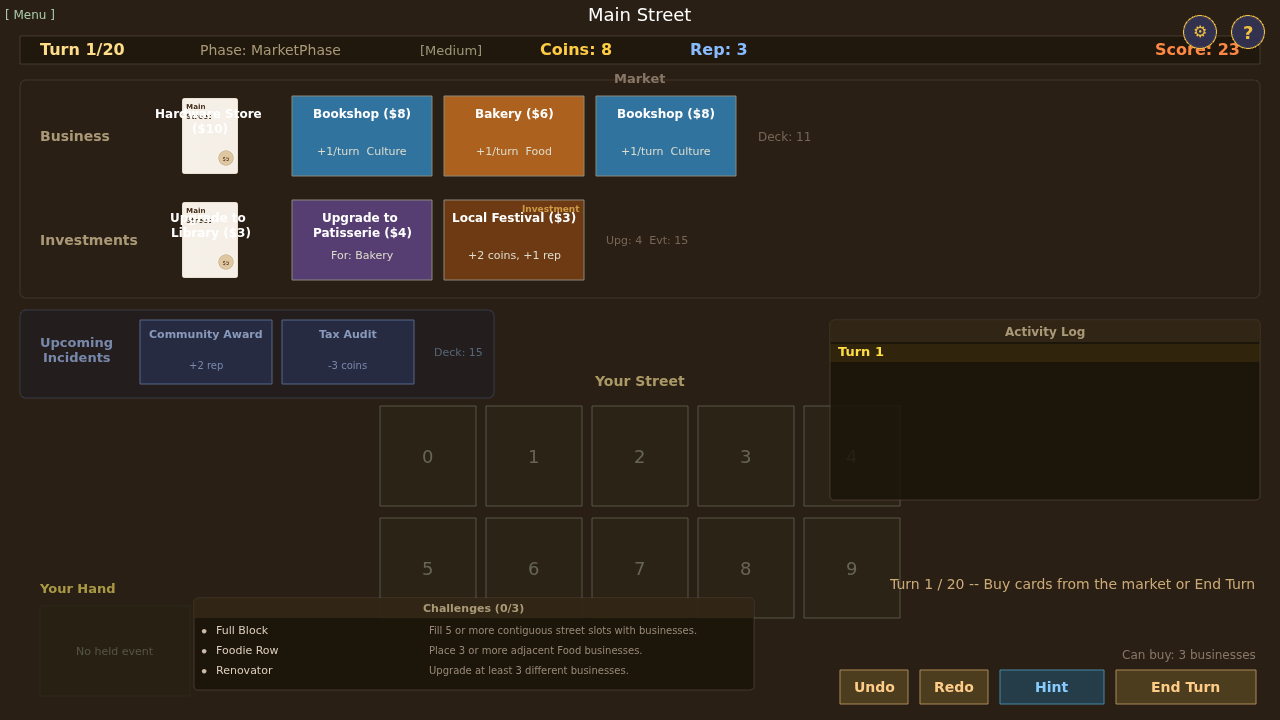
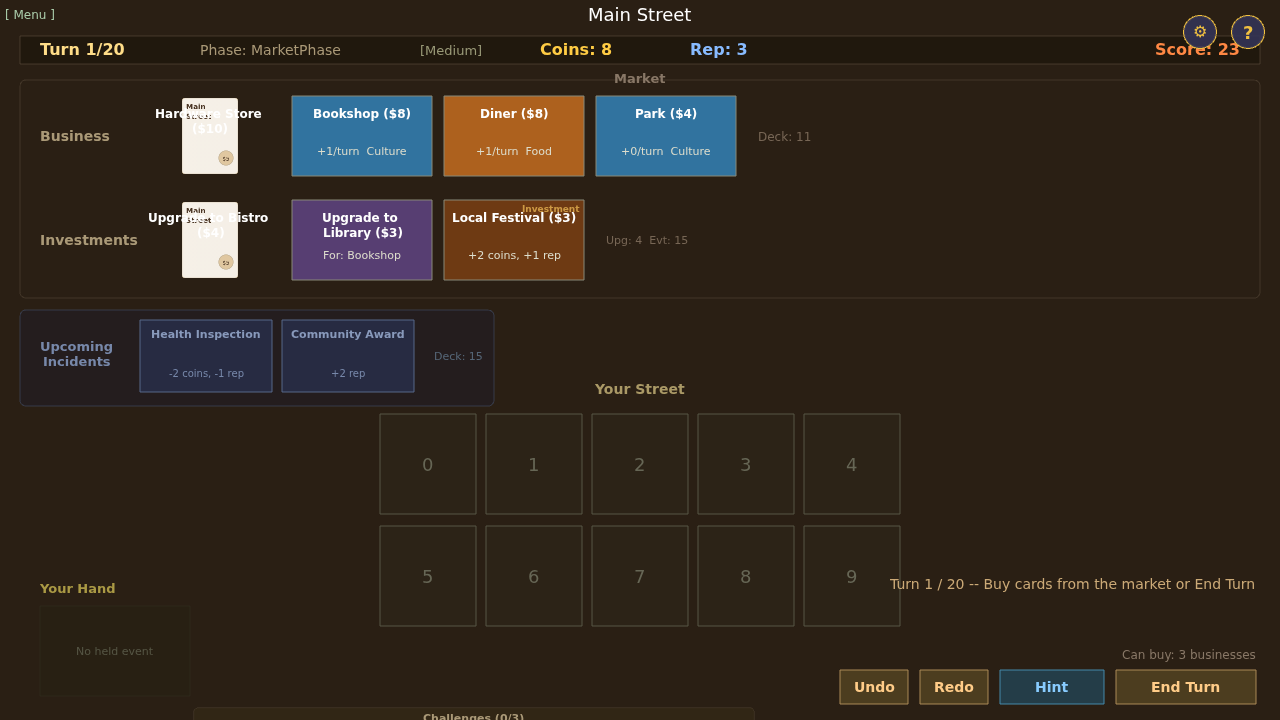
Fix: incident queue card sizes and player hand visibility
- Increase incident queue card height from 64px to 72px to match market cards
- Fix handY to not offset below screen on desktop
- Update screenshot showing corrected layout

diff --git a/src/scenes/MainStreetScene.ts b/src/scenes/MainStreetScene.ts
@@ -91,7 +91,7 @@ const BASE_MARKET_ROW_GAP = 10;
 const BASE_MARKET_CARD_GAP = 12;
 const BASE_MARKET_LABEL_W = 90;
 const BASE_QUEUE_CARD_W = 132;
-const BASE_QUEUE_CARD_H = 64;
+const BASE_QUEUE_CARD_H = 72;
 const BASE_QUEUE_CARD_GAP = 10;
 const BASE_SLOT_W = 96;
 const BASE_SLOT_H = 100;
@@ -385,7 +385,7 @@ export class MainStreetScene extends CardGameScene {
     const marketTop = 90;
 
     const queueCardW = compact ? 116 : BASE_QUEUE_CARD_W;
-    const queueCardH = compact ? 58 : BASE_QUEUE_CARD_H;
+    const queueCardH = compact ? 64 : BASE_QUEUE_CARD_H;
     const queueCardGap = compact ? 8 : BASE_QUEUE_CARD_GAP;
     const queueTop = marketTop + (2 * marketRowH + marketRowGap + 20) + 12;
 
@@ -440,7 +440,7 @@ export class MainStreetScene extends CardGameScene {
       streetX,
       streetRowGap: STREET_ROW_GAP,
       streetCols: STREET_COLS,
-      handY: compact ? handY : handY + handCardH + 16,
+      handY: handY,
       handCardW,
       handCardH,
       instructionY,
